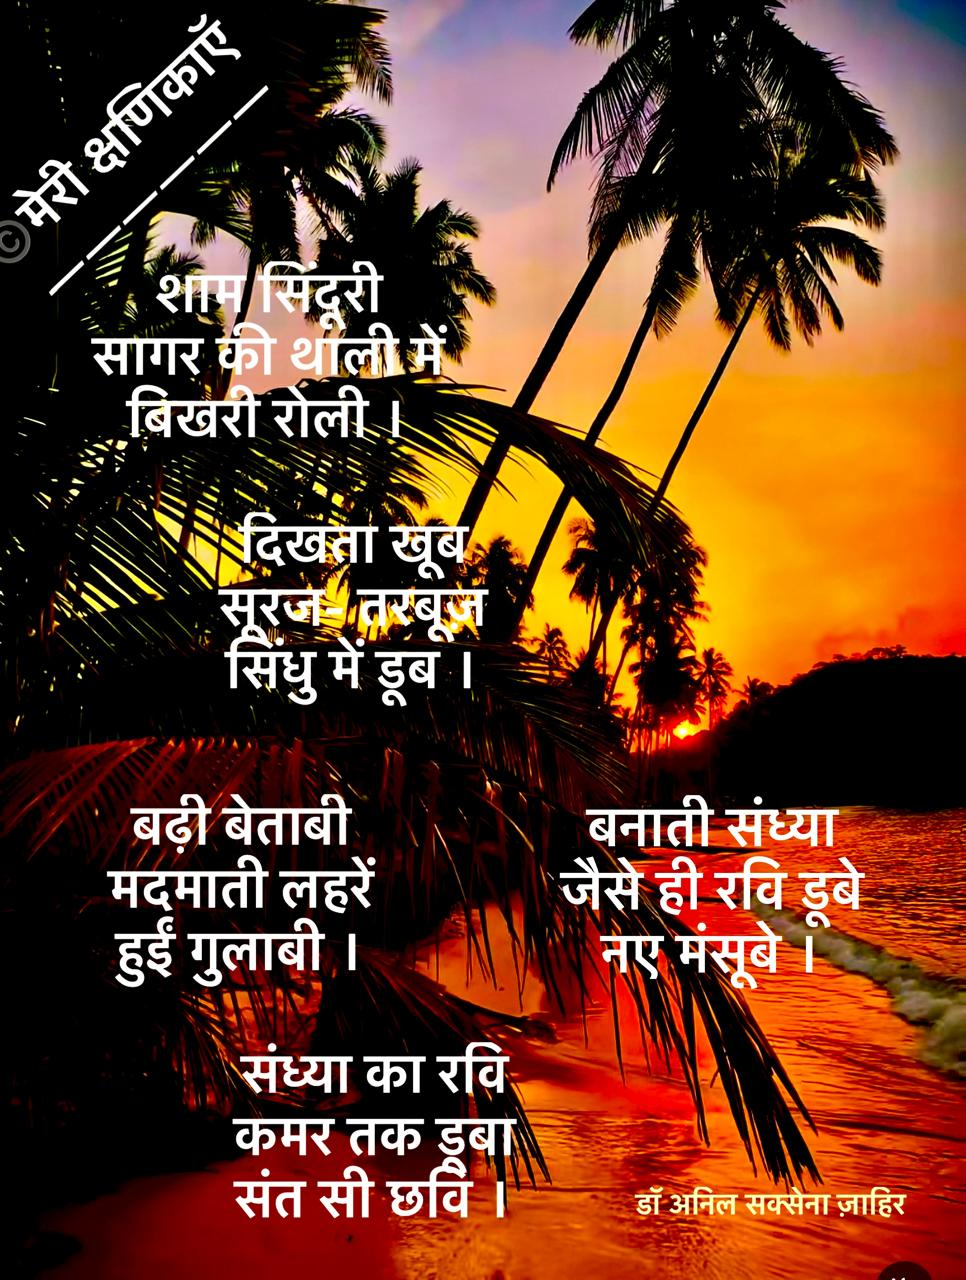
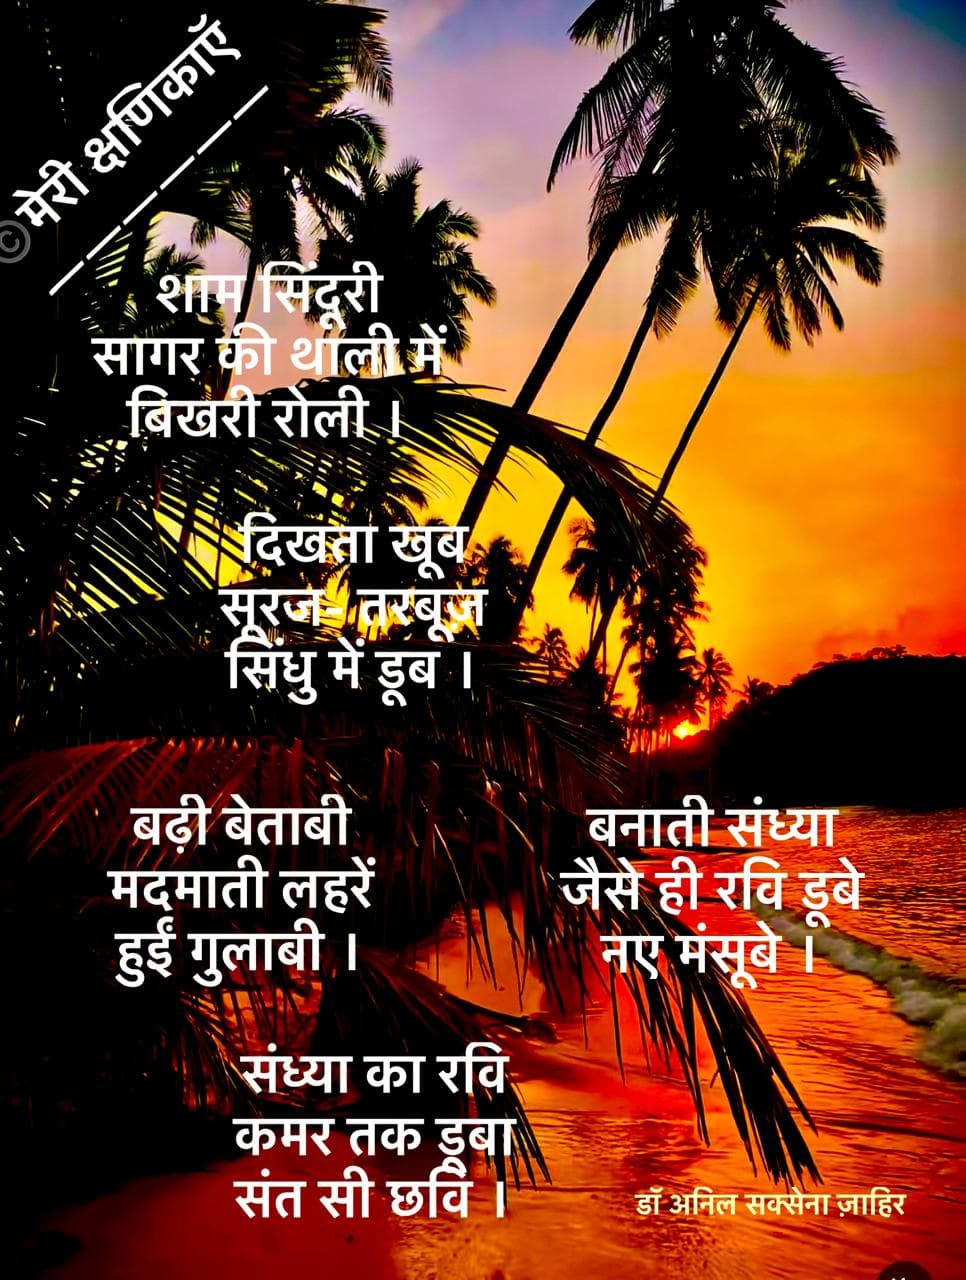
Audit fixes: 404.html SEO, compress images (post-mammi 1.5MB->287KB, post-yaden 600KB->58KB, post-bday 276KB->125KB), update image refs

diff --git a/site/posts/kshanikayen-anil-saxena.html b/site/posts/kshanikayen-anil-saxena.html
@@ -485,6 +485,31 @@ footer{background:var(--ink);color:rgba(255,255,255,0.6);padding:60px 80px 40px}
   <div class="footer-bottom">
     <p>© 2025 मेरे शब्द · गीतांजलि सक्सेना</p>
     <p>Abu Dhabi, UAE</p>
+  
+    <div class="fcol">
+      <div class="fcol-label">रचनाएं</div>
+      <ul>
+        <li><a href="../archive.html?cat=kavita">कविता</a></li>
+        <li><a href="../archive.html?cat=lekh">लेख</a></li>
+        <li><a href="../archive.html?cat=sansmaran">संस्मरण</a></li>
+        <li><a href="../archive.html?cat=pravasi">प्रवासी मन</a></li>
+      </ul>
+    </div>
+    <div class="fcol">
+      <div class="fcol-label">अन्वेषण</div>
+      <ul>
+        <li><a href="../about.html">परिचय</a></li>
+        <li><a href="../gallery.html">गैलरी</a></li>
+        <li><a href="../contact.html">संपर्क</a></li>
+      </ul>
+    </div>
+    <div class="fcol">
+      <div class="fcol-label">मेरे शब्द</div>
+      <ul>
+        <li><a href="../index.html">होम</a></li>
+        <li><a href="../archive.html">सभी रचनाएं</a></li>
+      </ul>
+    </div>
   </div>
 </footer>
 

diff --git a/site/404.html b/site/404.html
@@ -115,6 +115,17 @@ nav{padding:20px 60px;display:flex;align-items:center;justify-content:space-betw
   .quick-links{gap:16px}
 }
 </style>
+
+  <meta name="description" content="यह पृष्ठ नहीं मिला — मेरे शब्द | गीतांजलि सक्सेना की हिंदी कविताएं, लेख और संस्मरण।">
+  <link rel="canonical" href="https://mereshabd.com/404">
+  <meta property="og:type" content="website">
+  <meta property="og:title" content="पृष्ठ नहीं मिला — मेरे शब्द | गीतांजलि सक्सेना">
+  <meta property="og:description" content="यह पृष्ठ नहीं मिला। गीतांजलि सक्सेना की रचनाओं के लिए होम पेज पर जाएं।">
+  <meta property="og:url" content="https://mereshabd.com/404">
+  <meta property="og:image" content="https://mereshabd.com/images/author.jpg">
+  <meta name="twitter:card" content="summary">
+  <meta name="twitter:title" content="पृष्ठ नहीं मिला — मेरे शब्द">
+  <meta name="robots" content="noindex, follow">
 </head>
 <body>
 

diff --git a/site/index.html b/site/index.html
@@ -421,7 +421,7 @@ footer{background:var(--ink)}
     </a>
 
     <a href="posts/mammi-amma-nani.html" class="mi mi-md mi-3 bdr" style="text-decoration:none">
-      <div class="mi-img" style="background-image:url('images/post-bday.png');background-color:#051205"></div>
+      <div class="mi-img" style="background-image:url('images/post-bday.jpg');background-color:#051205"></div>
       <div class="mi-overlay"></div>
       <div class="mi-art">मा</div>
       <div class="mi-inner">
